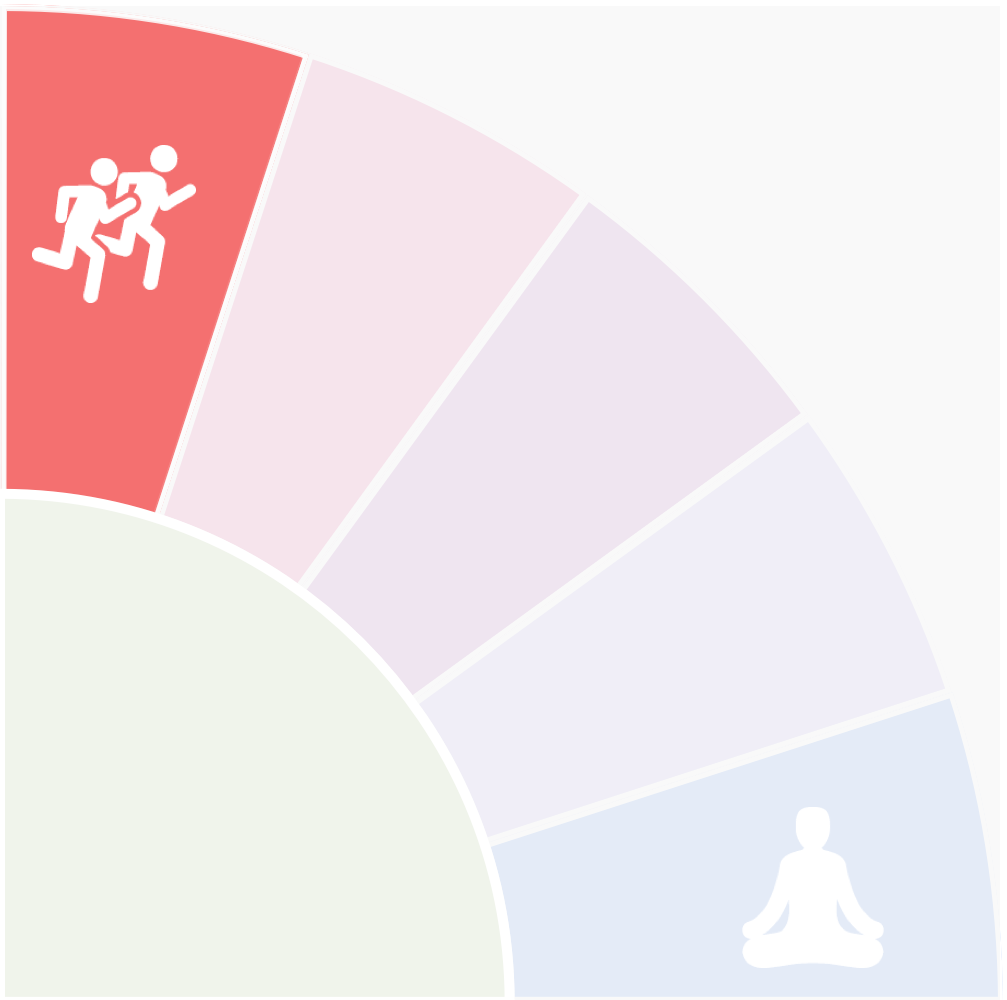
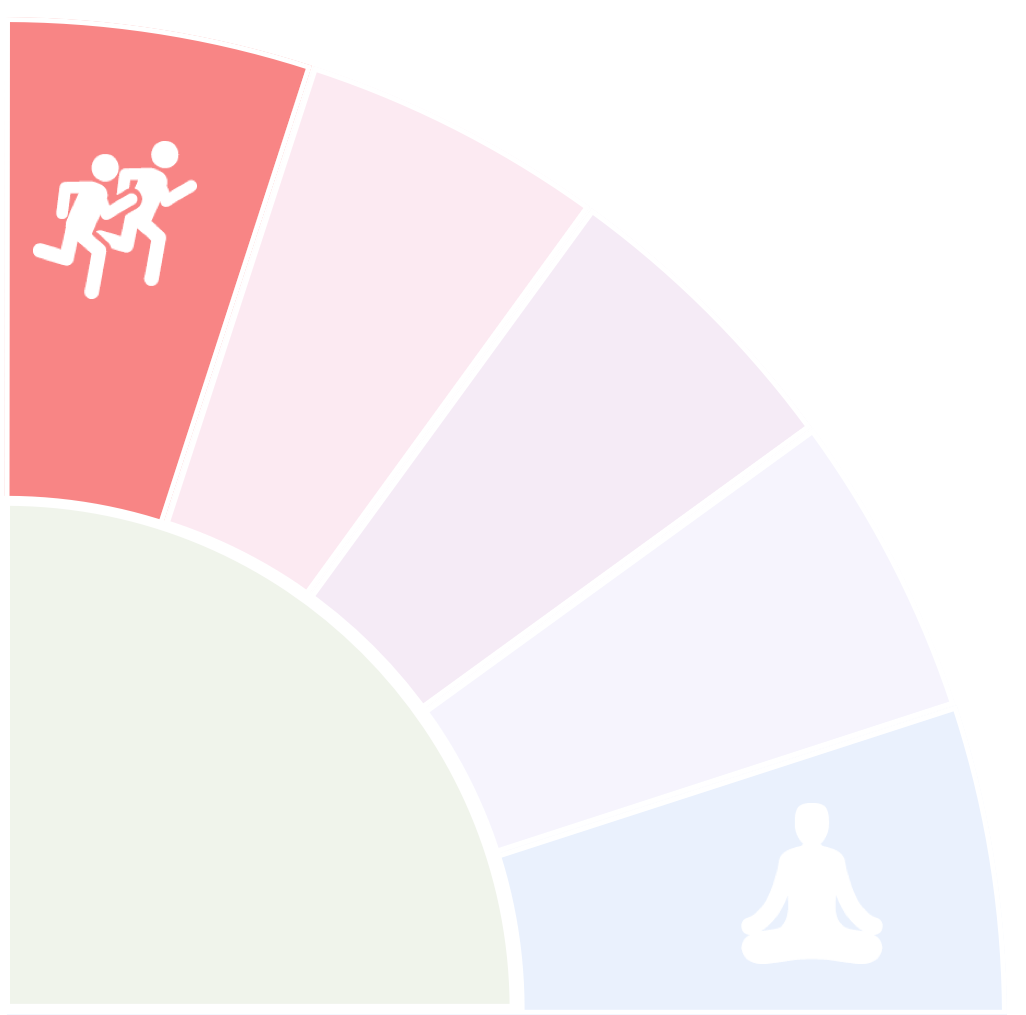
final demo changes

diff --git a/src/Coupling.html b/src/Coupling.html
@@ -1,70 +1,73 @@
 <!DOCTYPE html>
 <html lang="en">
-<head>
-    <meta charset="utf-8">
-    <meta http-equiv="X-UA-Compatible" content="IE=edge">
-    <meta name="viewport" content="user-scalable=no, width=device-width, initial-scale=1, maximum-scale=1">
-    <meta name="apple-mobile-web-app-capable" content="yes">
-    <meta name="mobile-web-app-capable" content="yes">
-    <title>Recallable - Coupling</title>
+    <head>
+        <meta charset="utf-8">
+        <meta http-equiv="X-UA-Compatible" content="IE=edge">
+        <meta name="viewport" content="user-scalable=no, width=device-width, initial-scale=1, maximum-scale=1">
+        <meta name="apple-mobile-web-app-capable" content="yes">
+        <meta name="mobile-web-app-capable" content="yes">
+        <title>Recallable - Coupling</title>
 
-    <link href="libs/bootstrap/css/bootstrap.min.css" rel="stylesheet">
+        <link href="libs/bootstrap/css/bootstrap.min.css" rel="stylesheet">
 
-    <link href="css/main.css" rel="stylesheet">
+        <link href="css/main.css" rel="stylesheet">
 
-    <!--[if lt IE 9]>
-    <script src="https://oss.maxcdn.com/html5shiv/3.7.3/html5shiv.min.js"></script>
-    <script src="https://oss.maxcdn.com/respond/1.4.2/respond.min.js"></script>
-    <![endif]-->
-</head>
+        <!--[if lt IE 9]>
+        <script src="https://oss.maxcdn.com/html5shiv/3.7.3/html5shiv.min.js"></script>
+        <script src="https://oss.maxcdn.com/respond/1.4.2/respond.min.js"></script>
+        <![endif]-->
+    </head>
 
-<body class="bg-main">
+    <body class="bg-main">
 
-<div class="container mobile-form">
-    <h1>Coupling</h1>
+        <div class="container mobile-form">
+            <h1>Coupling</h1>
 
-    <form class="form-horizontal" action="coupling.php" method="post">
+            <form class="form-horizontal" action="coupling.php" method="post">
 
-        <div class="spanner">
-            <h5>Tell your partner your pin code</h5>
-            <h1>1234</h1>
-        </div>
-
-        <div class="form-group">
-            <div class="spanner"><span>OR</span></div>
-        </div>
-
-        <div class="spanner">
-            <h5>Tell us your partner's pin code</h5>
-        </div>
-
-        <div class="container couple-code">
-            <div class="row">
-                <div class="col-xs-3">
-                    <input type="number" name="code1" style="width: 40px;">
+                <div class="spanner">
+                    <h5>Tell your partner your pin code</h5>
+                    <h1>1234</h1>
                 </div>
 
-                <div class="col-xs-3">
-                    <input type="number" name="code1" style="width: 40px;">
+                <div class="form-group">
+                    <div class="spanner"><span>OR</span></div>
                 </div>
 
-                <div class="col-xs-3">
-                    <input type="number" name="code1" style="width: 40px;">
+                <div class="spanner">
+                    <h5>Tell us your partner's pin code</h5>
                 </div>
 
-                <div class="col-xs-3">
-                    <input type="number" name="code1" style="width: 40px;">
-                </div>
+                <div class="container couple-code">
+                    <div class="row">
+                        <div class="col-xs-3">
+                            <input type="number" name="code1" style="width: 40px;">
+                        </div>
 
-            </div>
+                        <div class="col-xs-3">
+                            <input type="number" name="code1" style="width: 40px;">
+                        </div>
+
+                        <div class="col-xs-3">
+                            <input type="number" name="code1" style="width: 40px;">
+                        </div>
+
+                        <div class="col-xs-3">
+                            <input type="number" name="code1" style="width: 40px;">
+                        </div>
+
+                    </div>
+                </div>
+                <div class="form-group" style="margin-top: 40px;">
+                    <button type="submit" class="btn btn-danger btn-block">Connect with Partner</button>
+                </div>
+            </form>
         </div>
-    </form>
-</div>
 
-<!-- jQuery (necessary for Bootstrap's JavaScript plugins) -->
-<script src="libs/jquery/jquery.min.js"></script>
-<!-- Include all compiled plugins (below), or include individual files as needed -->
-<script src="libs/bootstrap/js/bootstrap.min.js"></script>
-<script src="js/main.js"></script>
-</body>
+        <!-- jQuery (necessary for Bootstrap's JavaScript plugins) -->
+        <script src="libs/jquery/jquery.min.js"></script>
+        <!-- Include all compiled plugins (below), or include individual files as needed -->
+        <script src="libs/bootstrap/js/bootstrap.min.js"></script>
+        <script src="js/main.js"></script>
+    </body>
 </html>

diff --git a/src/js/suggestions/Suggestion.js b/src/js/suggestions/Suggestion.js
@@ -1,5 +1,5 @@
 Suggestion = function () {
-    var SUGGESTIONS_FILE_PATH = 'res/activities.json';
+    var SUGGESTIONS_FILE_PATH = 'res/activities_1.json';
 
     var container;
     var suggestions = [];
@@ -15,9 +15,33 @@ Suggestion = function () {
         var sugg1 = parseInt(Math.random() * (suggestions.length - 1) + 1);
         var sugg2 = parseInt(Math.random() * (suggestions.length - 1) + 1);
         var sugg3 = parseInt(Math.random() * (suggestions.length - 1) + 1);
-        createSuggestionNode(suggestions[sugg1]);
-        createSuggestionNode(suggestions[sugg2]);
-        createSuggestionNode(suggestions[sugg3]);
+
+        createSuggestionNode(suggestions[0]);
+        createSuggestionNode(suggestions[1]);
+        createSuggestionNode(suggestions[2]);
+
+        attachEvents();
+    };
+
+    var attachEvents = function () {
+        $('.info-box').on('click', function (e) {
+            var id = $(this).attr('id');
+            var descBox = $('#' + id + '-desc');
+            $(this).toggleClass('open');
+            descBox.toggle();
+        });
+
+        $('.info-heart').on('click', function (e) {
+            e.stopPropagation();
+            if ($(this).hasClass('selected')) {
+                $(this).removeClass('selected');
+                $(this).attr('src', 'img/icons/heart_white_small.png');
+
+            } else {
+                $(this).addClass('selected');
+                $(this).attr('src', 'img/icons/heart_red_small.png');
+            }
+        });
     };
 
     var createSuggestionNode = function (suggestion) {
@@ -40,8 +64,14 @@ Suggestion = function () {
 
         var infoNode = document.createElement('div');
         infoNode.setAttribute('class', 'info-box');
+        infoNode.setAttribute('id', 'act-' + suggId);
         infoNode.innerHTML = suggName;
         containerNode.append(infoNode);
+
+        var heart = document.createElement('img');
+        heart.setAttribute('src', 'img/icons/heart_white_small.png');
+        heart.setAttribute('class', 'info-heart');
+        infoNode.append(heart);
 
         var tagsNode = document.createElement('ul');
         tagsNode.setAttribute('class', 'info-tags');
@@ -60,6 +90,27 @@ Suggestion = function () {
             tag.innerHTML = suggTags[i];
             tagsNode.append(tag);
         }
+
+        var descNode = document.createElement('div');
+        descNode.setAttribute('class', 'info-desc');
+        descNode.setAttribute('id', 'act-' + suggId + '-desc');
+        container.append(descNode);
+
+        var descTitleNode = document.createElement('h3');
+        descTitleNode.setAttribute('class', 'info-desc-title');
+        descTitleNode.innerHTML = 'Description';
+        descNode.append(descTitleNode);
+
+        var descTextNode = document.createElement('p');
+        descTextNode.setAttribute('class', 'info-desc-text');
+        descTextNode.innerHTML = suggDesc;
+        descNode.append(descTextNode);
+
+        var btn = document.createElement('button');
+        btn.setAttribute('class', 'btn btn-danger book-btn');
+        btn.innerHTML = 'Book it';
+        descNode.append(btn);
+
     };
 
     var getWeather = function (id) {

diff --git a/src/js/moodchooser/Chooser.js b/src/js/moodchooser/Chooser.js
@@ -30,7 +30,7 @@ Chooser = function () {
         zoneBounds.h = newWidth - 44;
 
         attachEvents();
-        //displayOverlay();
+        displayOverlay();
     };
 
     var attachEvents = function () {
@@ -44,7 +44,7 @@ Chooser = function () {
 
             pin.addEventListener('mousemove', dragIt, false);
 
-            window.addEventListener('mouseup', function () {
+            dropZone.addEventListener('mouseup', function () {
                 pin.removeEventListener('mousemove', dragIt, false);
             }, false);
 
@@ -61,17 +61,12 @@ Chooser = function () {
 
             pin.addEventListener('touchmove', swipeIt, false);
 
-            window.addEventListener('touchend', function (e) {
+            dropZone.addEventListener('touchend', function (e) {
                 e.preventDefault();
                 pin.removeEventListener('touchmove', swipeIt, false);
             }, false);
 
         }, false);
-
-        moodMap.onclick = function (e) {
-            var zone = e.target.id;
-            //moodImg.setAttribute('src', 'img/moods/' + zone + '.png');
-        };
     };
 
     var dragIt = function (e) {

diff --git a/src/css/main.css b/src/css/main.css
@@ -363,11 +363,13 @@ body.zoneF #zone-text-container .zone-button{
     bottom: 5px;
     left: 4px;
     right: 4px;
-    background-color: rgba(200,200,200, 0.8);
+    background-color: rgba(0,0,0, 0.4);
     border-bottom-left-radius: 10px;
     border-bottom-right-radius: 10px;
-    height: 80px;
+    height: 70px;
     padding: 10px;
+    color: #FFFFFF;
+    font-size: 1.1em;
 }
 
 .info-tags {
@@ -378,8 +380,36 @@ body.zoneF #zone-text-container .zone-button{
 
 .info-tags li {
     float: left;
-    border: 1px solid black;
+    border: 1px solid #FFFFFF;
     border-radius: 10px;
     padding: 0 10px;
-    margin: 0 5px;
+    margin-right: 10px;
+    margin-top: 5px;
+}
+
+.info-desc {
+    display: none;
+    padding: 10px;
+}
+
+.info-desc h3 {
+    margin-top: 0;
+}
+
+.info-box.open {
+    border-bottom-left-radius: 0px;
+    border-bottom-right-radius: 0px;
+}
+
+.info-desc .book-btn {
+    width: 120px;
+    margin-top: 10px;
+    margin-bottom: 30px;
+}
+
+.info-box .info-heart {
+    width: 40px;
+    position: absolute;
+    top: 20px;
+    right: 25px;
 }

diff --git a/src/chooser.html b/src/chooser.html
@@ -33,7 +33,7 @@
                         <h5>Try something</h5>
                         <span id="zone-text">as usual</span>
 
-                        <button type="submit" class="btn btn-block zone-button">open</button>
+                        <button id="open-btn" type="button" class="btn btn-block zone-button">open</button>
                     </div>
                 </div>
             </form>
@@ -68,6 +68,10 @@
         <script>
             $(function () {
                 var chooser = new Chooser();
+                
+                $('#open-btn').on('click', function (e) {
+                    window.location.href = 'http://recallable.der-esel.ch/result.php'; 
+                });
             });
 
             window.onload = function () {

diff --git a/src/js/preferences/Swiper.js b/src/js/preferences/Swiper.js
@@ -28,7 +28,7 @@ Swiper = function (trials, scorerObj) {
         setCurrentTrial();
         displayImg();
         
-        //displayOverlay();
+        displayOverlay();
     };
 
     var attachEvents = function () {

diff --git a/src/result.php b/src/result.php
@@ -21,6 +21,14 @@
     <body>
 
         <div id="result-container"></div>
+        
+        <div class="container mobile-form">
+            <form class="form-horizontal" action="chooser.html" method="post">
+                <div class="form-group">
+                    <button type="submit" class="btn btn-danger btn-block">Reselect</button>
+                </div>
+            </form>
+       </div>
 
         <!-- jQuery (necessary for Bootstrap's JavaScript plugins) -->
         <script src="libs/jquery/jquery.min.js"></script>
